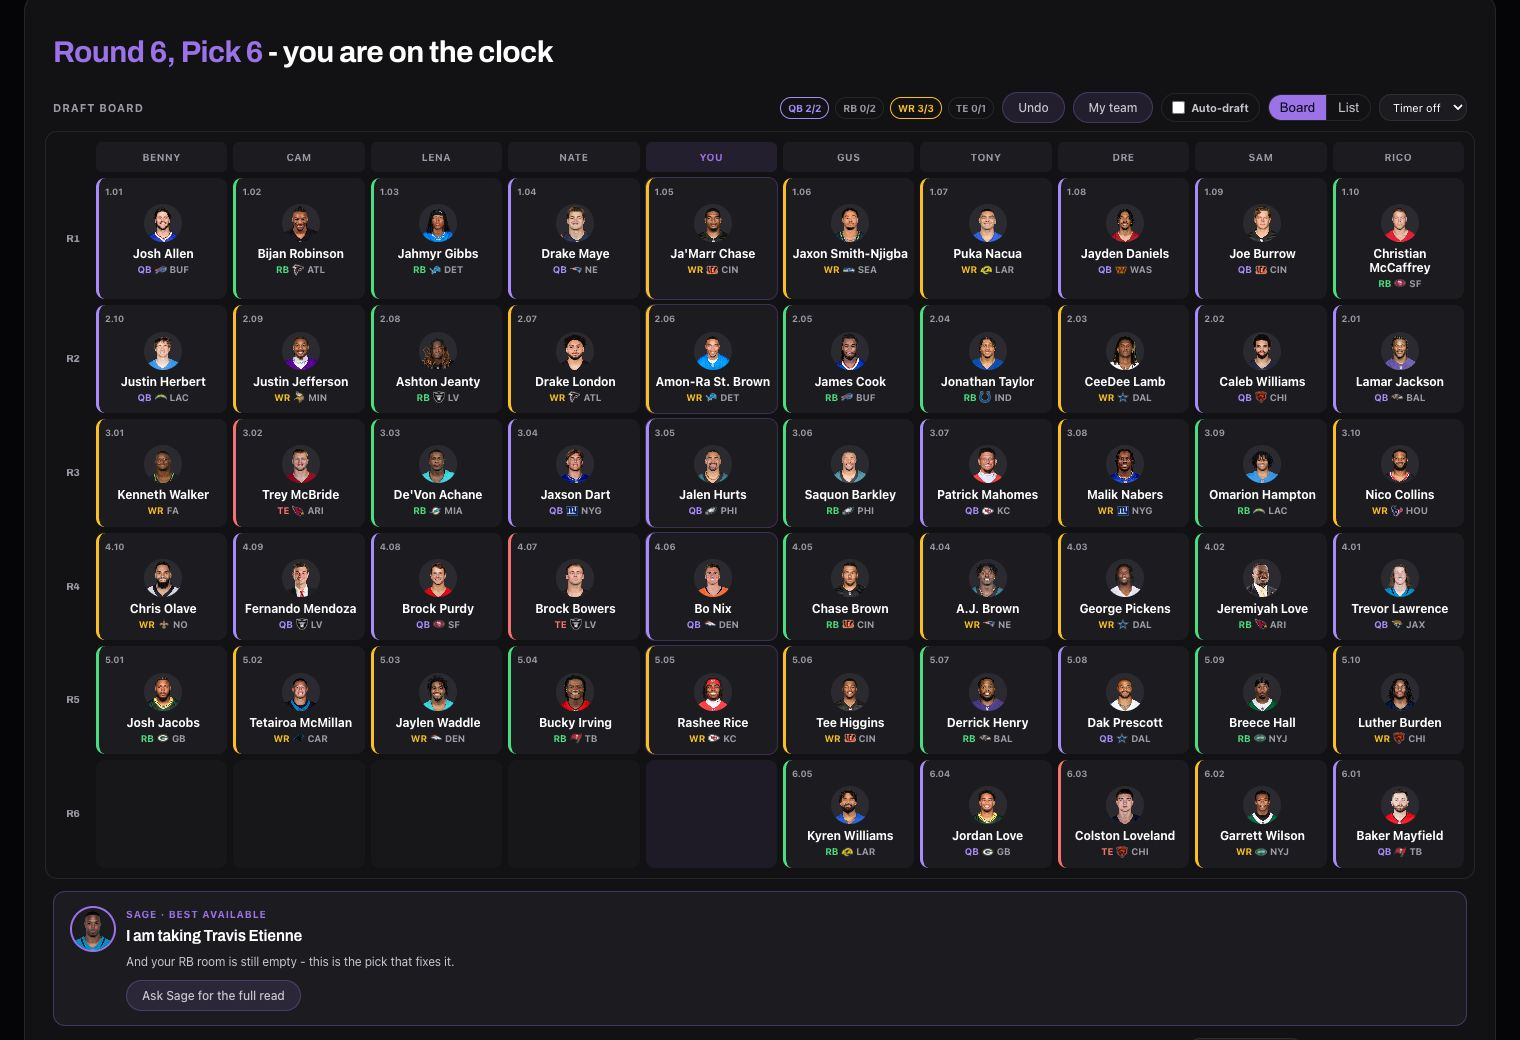
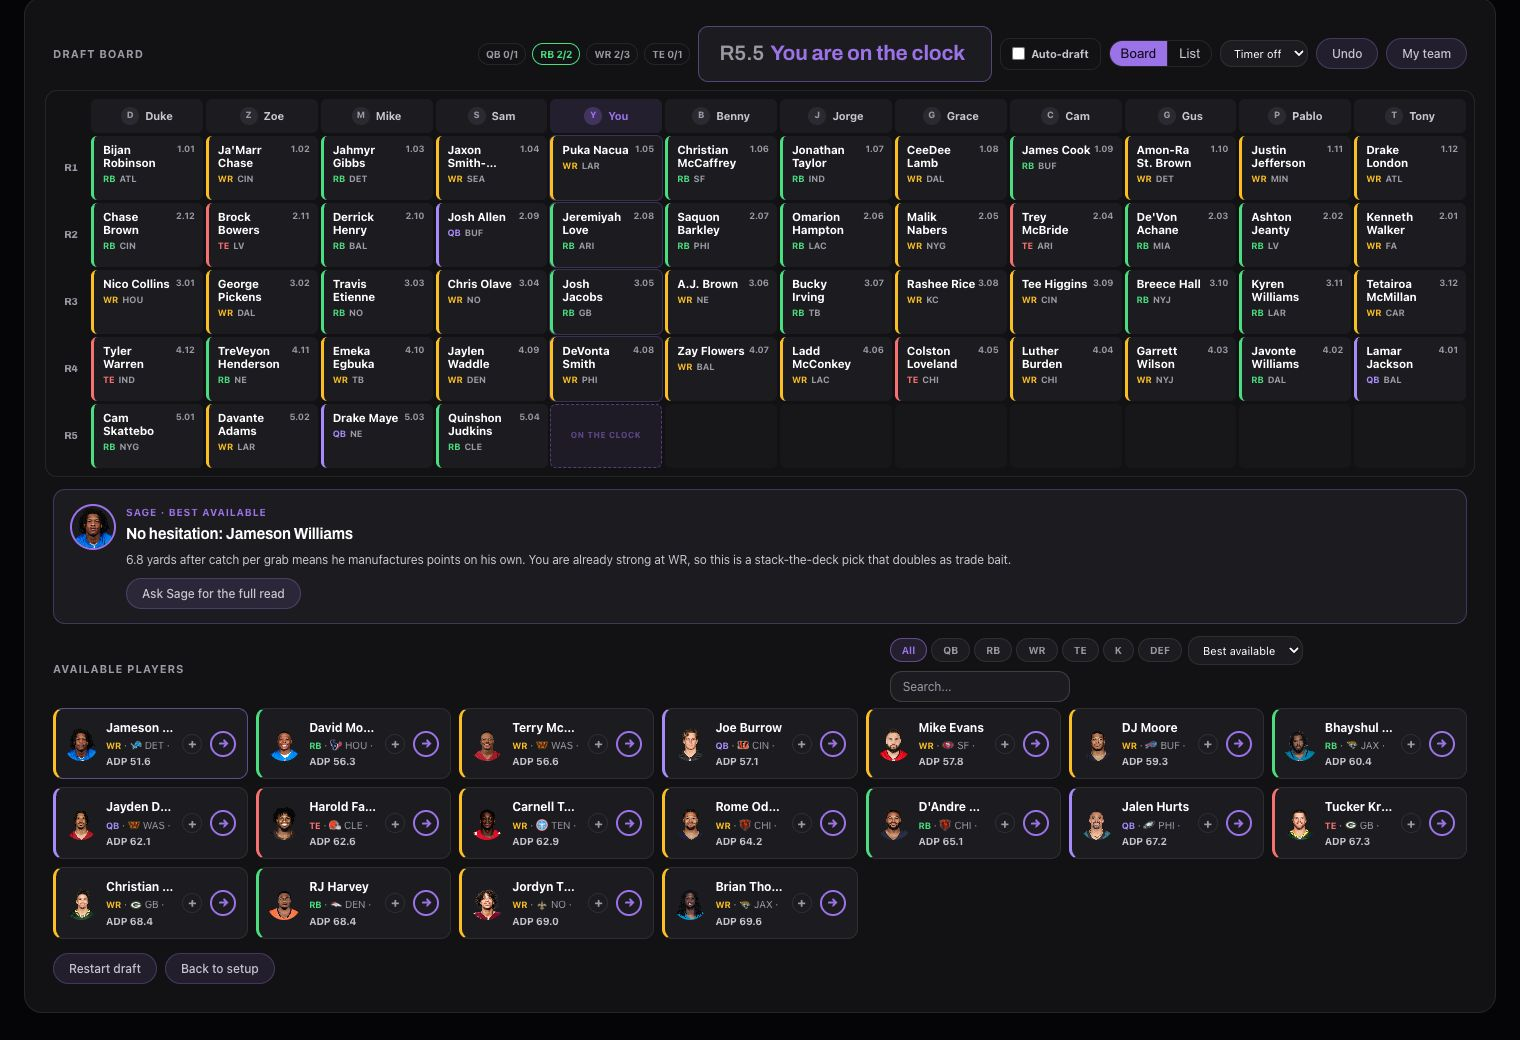
Tablero con proporciones Stacked y player card que abre GRANDE
Tablero (calibrado contra el demo real de stackedfantasy.com, manteniendo
nuestra paleta y la regla de un solo acento):
- Celdas apaisadas (~64px de alto, columnas de minimo 96px con scroll
  lateral cuando no caben), gaps de 3px, numero de pick arriba a la
  derecha, nombre a dos lineas + pos-equipo abajo; las caras salen de las
  celdas (viven en la lista y en el card, aqui costaban la proporcion)
- Headers de columna con avatar circular (inicial) + nombre; YOU en acento
- Barra del board estilo Stacked: pill de estado 'R5.5 · You are on the
  clock' / 'Current drafter: Tony · you in 3' con el reloj dentro, toggle
  Auto-draft al lado, y los controles quietos detras

Player card GRANDE al click (segundo nivel; el inline sigue en calma):
- Escritorio: dosier a dos columnas de hasta 1060px - riel de identidad a
  la izquierda (foto 150px, badge de equipo, nombre 26px, pos, ADP +
  direccion de mercado, señal de timing) y profundidad a la derecha con
  scroll propio (market read, stats 2025, dynasty, Sage's take, noticias)
- Secciones nuevas en el card: 'Keep in mind' (narrativas curadas del
  jugador) y 'Draft day' cuando el mock esta vivo y el jugador sigue en el
  board: un boton trae los carriles de riesgo de Sage renderizados dentro
  del propio card (mdAskSageLive ahora acepta host)
- Movil: el card ocupa la pantalla completa apilado con scroll

El hero se recaptura con el tablero nuevo (mismo encuadre, 179KB) para que
[…]

diff --git a/public/app.js b/public/app.js
@@ -6133,6 +6133,59 @@ function openPlayerCard(pid, name){
     }
   }
 
+  // ── Identity rail extras: ADP + market direction under the bio ──
+  try{
+    var _info=modal.querySelector('.pm-info');
+    var _dm=document.getElementById('pm-draftmeta');
+    if(!_dm&&_info){_dm=document.createElement('div');_dm.id='pm-draftmeta';_dm.style.cssText='font-size:12px;color:var(--muted2);margin-top:8px;font-weight:600';_info.appendChild(_dm);}
+    if(_dm){
+      var _bits=[];
+      var _adp=(pid&&window._adpById)?window._adpById[pid]:null;
+      if(_adp!=null)_bits.push('ADP '+(+_adp).toFixed(1));
+      if(fc){
+        var _t3=fc.trend30Day||0;
+        _bits.push(_t3>250?'rising fast':_t3>60?'rising':_t3<-250?'falling fast':_t3<-60?'falling':'steady market');
+      }
+      _dm.textContent=_bits.join(' · ');
+    }
+  }catch(_){}
+  // ── Keep in mind: the curated draft narratives that apply to THIS player ──
+  try{
+    var _host=takeEl&&takeEl.parentNode;
+    var _km=document.getElementById('pm-keepmind');
+    if(!_km&&_host){_km=document.createElement('div');_km.id='pm-keepmind';_host.insertBefore(_km,takeEl.nextSibling);}
+    if(_km){
+      var _narr=(typeof mdNarratives==='function')?mdNarratives({id:pid,name:displayName,pos:pos,team:team}):[];
+      _km.innerHTML=_narr.length
+        ?'<div style="margin:0 0 12px;padding:12px 14px;background:var(--surface2);border-left:2px solid var(--border2);border-radius:10px">'
+          +'<div style="font-size:10px;font-weight:700;color:var(--accent-bright);text-transform:uppercase;letter-spacing:.08em;margin-bottom:4px">Keep in mind</div>'
+          +_narr.map(function(n){return '<div style="font-size:12px;color:var(--muted2);line-height:1.6;margin-top:4px">'+n+'</div>';}).join('')
+          +'</div>'
+        :'';
+    }
+  }catch(_){}
+  // ── Draft day: if a mock is LIVE and he is still on the board, Sage's risk
+  // lanes are one click away right here in the card ──
+  try{
+    var _sw=document.getElementById('pm-sage-wrap');
+    if(!_sw&&takeEl&&takeEl.parentNode){
+      _sw=document.createElement('div');_sw.id='pm-sage-wrap';
+      var _kmEl=document.getElementById('pm-keepmind');
+      takeEl.parentNode.insertBefore(_sw,_kmEl?_kmEl.nextSibling:takeEl.nextSibling);
+    }
+    if(_sw){
+      var _bd=document.getElementById('md-board');
+      var _inPool=!!(_bd&&_bd.dataset.live==='1'&&!MP.active&&MD.pool&&MD.pool.some(function(x){return x.id===pid;}));
+      _sw.innerHTML=_inPool
+        ?'<div style="margin:0 0 12px;padding:12px 14px;background:var(--surface2);border:1px solid rgba(155,114,232,.3);border-radius:10px">'
+          +'<div style="font-size:10px;font-weight:700;color:var(--accent-bright);text-transform:uppercase;letter-spacing:.08em;margin-bottom:6px">Draft day</div>'
+          +'<div style="font-size:12px;color:var(--muted2);line-height:1.55;margin-bottom:8px">Still on the board in your mock. One call gets Sage\'s risk lanes for this exact pick.</div>'
+          +'<button class="btn-sm md-sage-ask" onclick="mdAskSageLive(\''+pid+'\',\'pm-sage-live\')">Ask Sage: my options here</button>'
+          +'<div id="pm-sage-live" style="display:none"></div></div>'
+        :'';
+    }
+  }catch(_){}
+
   // ── Season outlook ──
   renderOutlook(null, []); // clear while loading
 
@@ -7616,8 +7669,10 @@ function _mdAutoPick(){
 // Sage's REAL read on a pick: one on-demand API call (never per hover, never
 // automatic) carrying the full draft context - your roster, the round, the
 // board - so the answer is about THIS pick in THIS room.
-async function mdAskSageLive(pid){
-  var host=document.getElementById('md-sage-live');
+async function mdAskSageLive(pid,hostId){
+  // hostId lets the big player card host the lanes in place; the war room's
+  // Sage box stays the default
+  var host=document.getElementById(hostId||'md-sage-live');
   if(!host||MD._sageLiveBusy)return;
   var p=pid?(_mdById(pid)||MD.lastRec):(MD.selChoice||MD.lastRec);
   if(!p)return;
@@ -8007,7 +8062,7 @@ function mdAdvance(){
   var pickNo=(MD.pickIdx%MD.teams)+1;
   if(slot===MD.mySlot){
     MD.onClock=true;MD.curRound=round;
-    document.getElementById('md-status').innerHTML='<span style="color:var(--accent-bright)">Round '+round+', Pick '+pickNo+'</span> - you are on the clock<span id="md-clk"></span>';
+    document.getElementById('md-status').innerHTML='<span style="color:var(--muted)">R'+round+'.'+pickNo+'</span><span style="color:var(--accent-bright);font-weight:700">You are on the clock</span><span id="md-clk"></span>';
     mdShowChoices(round);
     mdStartClock();
     if(MD.autoPilot)_mdAutoPick();
@@ -8017,8 +8072,8 @@ function mdAdvance(){
     for(var qi=MD.pickIdx;qi<MD.order.length;qi++){if(MD.order[qi]===MD.mySlot){untilMe=qi-MD.pickIdx;break;}}
     var botName=(MD.bots&&MD.bots[slot]&&MD.bots[slot].name)||('Team '+slot);
     var stEl=document.getElementById('md-status');
-    if(stEl)stEl.innerHTML='Round '+round+', Pick '+pickNo+' - '+botName+' is picking'
-      +(untilMe>0?' · <span style="color:var(--accent-bright)">your turn in '+untilMe+' pick'+(untilMe>1?'s':'')+'</span>':'');
+    if(stEl)stEl.innerHTML='<span style="color:var(--muted)">R'+round+'.'+pickNo+'</span>Current drafter: <b style="color:var(--text)">'+botName+'</b>'
+      +(untilMe>0?'<span style="color:var(--accent-bright)">you in '+untilMe+'</span>':'');
     // AI drafts by need-weighted value
     MD.aiRosters[slot]=MD.aiRosters[slot]||{QB:0,RB:0,WR:0,TE:0,K:0,DEF:0,list:[]};
     var ros=MD.aiRosters[slot];
@@ -9223,12 +9278,15 @@ function mdRenderBoard(){
   var byCell={};
   MD.picks.forEach(function(pk){byCell[pk.round+'-'+pk.slot]=pk;});
   var lastPk=MD.picks[MD.picks.length-1];
-  var html='<div class="mdb-grid" style="grid-template-columns:34px repeat('+MD.teams+',minmax(0,1fr))">';
+  // Columns get a real minimum width (Stacked proportions): on narrow screens
+  // the wrap scrolls sideways instead of crushing every cell
+  var html='<div class="mdb-grid" style="grid-template-columns:34px repeat('+MD.teams+',minmax(96px,1fr))">';
   html+='<div class="mdb-corner"></div>';
   for(var t=1;t<=MD.teams;t++){
     var me=t===MD.mySlot;
     var hb=(MD.bots&&MD.bots[t]&&MD.bots[t].name)||('Team '+t);
-    html+='<div class="mdb-head'+(me?' mdb-me':'')+'" title="'+hb+'">'+(me?'YOU':hb)+'</div>';
+    var ini=me?'Y':hb.charAt(0).toUpperCase();
+    html+='<div class="mdb-head'+(me?' mdb-me':'')+'" title="'+hb+'"><span class="mdb-avatar">'+ini+'</span><span class="mdb-teamname">'+(me?'You':hb)+'</span></div>';
   }
   var roundsDone=Math.max(1,Math.ceil(Math.max(1,MD.picks.length+1)/MD.teams));
   var showRounds=Math.min(MD.rounds,roundsDone);
@@ -9243,19 +9301,14 @@ function mdRenderBoard(){
       } else {
         var pos=pk.p.pos;
         var isLast=lastPk&&pk===lastPk;
-        var nm=pk.p.name.split(' ');
-        // K/DEF names are already short codes - never initial-ize "LAC D/ST"
-        var short=pk.p.name; // full names always - the cell wraps to two lines
-        var _nmEsc=pk.p.name.replace(/'/g,"\\'");
-        var face=pk.p.id&&String(pk.p.id).indexOf('fb_')!==0
-          ?'<img class="mdb-face" src="'+mdFaceUrl(pk.p)+'" alt="" loading="lazy" title="View player card"'+(pk.p.pos==='DEF'?' style="object-fit:contain"':'')+' onclick="event.stopPropagation();openPlayerCard(\''+pk.p.id+'\',\''+_nmEsc+'\')" onerror="this.style.display=\'none\'">'
-          :'';
+        // Landscape cells, Stacked density: pick number top-right, name up to
+        // two lines, pos + team below. Faces live in the list view and the
+        // player card; here they cost height the proportions cannot afford.
         html+='<div class="mdb-cell'+(pk.mine?' mdb-minepick':'')+(isLast?' mdb-latest':'')+'" title="Click to change this pick" onclick="mdEditPick('+r+','+s2+')" style="cursor:pointer;background:var(--surface2);border-left:3px solid '+(posBorder[pos]||'var(--border)')+'">'
           +'<div class="mdb-pickno">'+pk.round+'.'+(pk.pickNo<10?'0':'')+pk.pickNo+'</div>'
-          +'<div class="mdb-row">'+face
-          +'<div class="mdb-txt"><div class="mdb-name">'+short+'</div>'
-          +'<div class="mdb-sub" style="color:'+(posBorder[pos]||'var(--muted)')+'">'+pos+' <span style="color:var(--muted)">'+teamLogo(pk.p.team,12)+(pk.p.team||'FA')+'</span></div></div>'
-          +'</div></div>';
+          +'<div class="mdb-name">'+pk.p.name+'</div>'
+          +'<div class="mdb-sub" style="color:'+(posBorder[pos]||'var(--muted)')+'">'+pos+' <span style="color:var(--muted)">'+(pk.p.team||'FA')+'</span></div>'
+          +'</div>';
       }
     }
   }

diff --git a/public/index.html b/public/index.html
@@ -18,14 +18,14 @@ window.tmTrack=function(ev,props){try{if(window.posthog&&posthog.capture)posthog
 <meta property="og:description" content="Mock drafts personalized to your league. Describe your room or connect Sleeper, then draft with Sage advising every pick.">
 <meta property="og:type" content="website">
 <meta property="og:url" content="https://trademindff.com/">
-<meta property="og:image" content="https://trademindff.com/og.png?v=2026072484">
+<meta property="og:image" content="https://trademindff.com/og.png?v=2026072485">
 <meta property="og:image:width" content="1200">
 <meta property="og:image:height" content="630">
 <meta property="og:site_name" content="TradeMind">
 <meta name="twitter:card" content="summary_large_image">
 <meta name="twitter:title" content="TradeMind - The Mock Draft That Drafts Like Your League">
 <meta name="twitter:description" content="Mock drafts that behave like YOUR league, with Sage advising every pick.">
-<meta name="twitter:image" content="https://trademindff.com/og.png?v=2026072484">
+<meta name="twitter:image" content="https://trademindff.com/og.png?v=2026072485">
 <link rel="canonical" href="https://trademindff.com/">
 <script defer src="/_vercel/insights/script.js"></script>
 <link rel="preconnect" href="https://fonts.googleapis.com">
@@ -33,14 +33,14 @@ window.tmTrack=function(ev,props){try{if(window.posthog&&posthog.capture)posthog
 <link href="https://fonts.googleapis.com/css2?family=Archivo:wght@500;600;700;800;900&display=swap" rel="stylesheet">
 <!-- The ?v=111 stamp cache-busts CSS/JS on deploy. Bump it whenever styles.css,
      v11/v12.css or app.js change, or returning visitors keep the old files. -->
-<link rel="stylesheet" href="/styles.css?v=2026072484">
+<link rel="stylesheet" href="/styles.css?v=2026072485">
 <!-- v12 (Apple design, Archivo headings) is the live site. Applied by default via
      class="v12" on <html> above + this stylesheet. v12.css @imports v11.css. -->
-<link rel="stylesheet" href="/v12.css?v=2026072484" id="skin-default">
+<link rel="stylesheet" href="/v12.css?v=2026072485" id="skin-default">
 <!-- Loads last so the cross-screen consistency pass (radii, type scale, accent
      placement on Community/Research/My League) settles the cascade over both
      styles.css and the v11/v12 skin without needing !important. -->
-<link rel="stylesheet" href="/theme.css?v=2026072484">
+<link rel="stylesheet" href="/theme.css?v=2026072485">
 <script>
 // The older design concepts (v2-v11) stay previewable with ?vN for side-by-side
 // comparison. Loading one swaps out the default v12 baseline and shows a banner so
@@ -52,7 +52,7 @@ if(_skin){
   var _base=document.getElementById('skin-default');
   if(_base&&_base.parentNode)_base.parentNode.removeChild(_base); // and its stylesheet
   _el.classList.add(_skin[1]);
-  document.write('<link rel="stylesheet" href="/'+_skin[1]+'.css?v=2026072484">');
+  document.write('<link rel="stylesheet" href="/'+_skin[1]+'.css?v=2026072485">');
   window.addEventListener('DOMContentLoaded',function(){
     var pill=document.createElement('div');
     pill.style.cssText='position:fixed;bottom:16px;left:50%;transform:translateX(-50%);z-index:99999;background:#131210;color:#f5efe3;font:700 12px sans-serif;padding:10px 18px;border-radius:100px;box-shadow:0 6px 18px rgba(0,0,0,.35);display:flex;gap:12px;align-items:center';
@@ -256,7 +256,7 @@ window.addEventListener('load',function(){window.scrollTo(0,0);});
         meaning, so alt stays empty for screen readers. (hero-product.png is
         the same shot, kept for older cached HTML that still requests it.) -->
    <div class="hero-shot" aria-hidden="true">
-     <img src="/hero-product.jpg?v=2" width="1520" height="1040" alt="" decoding="async" fetchpriority="high">
+     <img src="/hero-product.jpg?v=3" width="1520" height="1040" alt="" decoding="async" fetchpriority="high">
    </div>
   </div>
 </div>
@@ -1107,17 +1107,15 @@ window.addEventListener('load',function(){window.scrollTo(0,0);});
         </div>
         <div id="md-history-wrap" style="display:none"><div id="md-history"></div></div>
         <div id="md-board" style="display:none">
-          <div id="md-status" style="font-size:13px;font-weight:700;color:var(--text);margin-bottom:10px"></div>
-          <div id="md-lg-note" style="display:none;font-size:11px;color:var(--accent-bright);margin:-4px 0 10px;line-height:1.5"></div>
-          <!-- One calm control row: label left, five controls right. Restart
-               and Settings live at the foot of the board; the position color
-               legend went away (every cell already names its position). -->
+          <div id="md-lg-note" style="display:none;font-size:11px;color:var(--accent-bright);margin:0 0 10px;line-height:1.5"></div>
+          <!-- Stacked-style board bar: title left; the drafter-status pill and
+               the Auto-draft toggle carry the row, the quieter controls trail.
+               Restart and Settings live at the foot of the board. -->
           <div style="display:flex;align-items:center;flex-wrap:wrap;gap:8px;margin-bottom:8px">
             <div style="font-size:11px;font-weight:700;color:var(--muted);text-transform:uppercase;letter-spacing:.08em;margin-right:auto">Draft board</div>
             <span id="md-needs" style="display:flex;gap:6px;font-size:10px;font-weight:700"></span>
-            <button class="btn-sm" id="md-undo-btn" onclick="mdUndo()" title="Take back your last pick (AI picks after it come back too)">Undo</button>
-            <button class="btn-sm md-solo-ctl" onclick="mdShowMyRoster()" title="See the players you've drafted so far">My team</button>
-            <label class="md-solo-ctl" title="Sage drafts your picks for you until you turn it off" style="display:inline-flex;align-items:center;gap:6px;font-size:11px;font-weight:700;color:var(--muted2);cursor:pointer;padding:5px 10px;border:1px solid var(--border);border-radius:100px">
+            <div id="md-status"></div>
+            <label class="md-solo-ctl" title="Sage drafts your picks for you until you turn it off" style="display:inline-flex;align-items:center;gap:6px;font-size:11px;font-weight:700;color:var(--muted2);cursor:pointer;padding:6px 11px;border:1px solid var(--border);border-radius:10px">
               <input type="checkbox" id="md-auto" onchange="mdAutoToggle(this.checked)" style="accent-color:var(--accent-bright);margin:0">Auto-draft
             </label>
             <span style="display:inline-flex;border:1px solid var(--border);border-radius:100px;overflow:hidden;font-size:10px;font-weight:700;text-transform:uppercase;letter-spacing:.05em">
@@ -1127,6 +1125,8 @@ window.addEventListener('load',function(){window.scrollTo(0,0);});
             <select id="md-clock-live" class="opp-select" style="width:auto;font-size:11px;padding:5px 9px" onchange="mdSetClockLive(this.value)" title="Pick timer">
               <option value="0">Timer off</option><option value="30">30s</option><option value="60">60s</option><option value="90">90s</option><option value="120">2 min</option>
             </select>
+            <button class="btn-sm" id="md-undo-btn" onclick="mdUndo()" title="Take back your last pick (AI picks after it come back too)">Undo</button>
+            <button class="btn-sm md-solo-ctl" onclick="mdShowMyRoster()" title="See the players you've drafted so far">My team</button>
           </div>
           <div id="md-draftboard" class="mdb-wrap"></div>
           <div id="md-queue-wrap" style="display:none;align-items:center;gap:8px;flex-wrap:wrap;margin-top:10px;padding:9px 12px;background:var(--surface2);border:1px solid var(--border);border-radius:10px">
@@ -1624,7 +1624,7 @@ window.addEventListener('load',function(){window.scrollTo(0,0);});
   </div>
 </div>
 
-<script src="/app.js?v=2026072484"></script>
+<script src="/app.js?v=2026072485"></script>
 
 <!-- PLAYER CARD MODAL -->
 <div id="player-modal" class="pm-overlay" onclick="if(event.target===this)closePlayerCard()">

diff --git a/public/styles.css b/public/styles.css
@@ -1120,23 +1120,27 @@ footer{padding:var(--sp-section) 1.5rem 2.5rem;border-top:1px solid var(--border
 @keyframes rankPick{0%{box-shadow:0 0 0 0 rgba(34,197,94,.6)}100%{box-shadow:0 0 0 16px rgba(34,197,94,0)}}
 
 /* Sleeper-style mock draft board */
+/* Stacked-calibrated board: landscape cells (wider than tall), hairline gaps,
+   pick number pinned top-right, flat surfaces. Team columns carry a small
+   avatar + name. Density and proportion match the reference; the palette and
+   the single-accent rule stay ours. */
 .mdb-wrap{overflow:auto;max-height:560px;margin:0 -8px;border:1px solid var(--border);border-radius:12px;background:var(--surface)}
-.mdb-grid{display:grid;gap:6px;padding:10px;min-width:0}
-.mdb-row{display:flex;flex-direction:column;align-items:center;gap:5px;min-width:0;text-align:center;padding-top:2px}
-.mdb-face{width:38px;height:38px;cursor:pointer;border-radius:50%;object-fit:cover;object-position:top center;flex:none;background:var(--surface3)}
-.mdb-txt{min-width:0;flex:1}
+.mdb-grid{display:grid;gap:3px;padding:8px;min-width:0}
 .mdb-corner{position:sticky;top:0;z-index:2;background:var(--surface)}
-.mdb-head{position:sticky;top:0;z-index:2;background:var(--surface2);font-size:10px;font-weight:700;color:var(--muted);text-transform:uppercase;letter-spacing:.04em;text-align:center;padding:7px 4px;border-radius:6px}
+.mdb-head{position:sticky;top:0;z-index:2;background:var(--surface2);font-size:11px;font-weight:700;color:var(--muted2);padding:8px 6px;border-radius:6px;display:flex;align-items:center;justify-content:center;gap:6px;min-width:0}
+.mdb-head .mdb-teamname{overflow:hidden;text-overflow:ellipsis;white-space:nowrap}
+.mdb-avatar{flex:none;width:18px;height:18px;border-radius:50%;background:var(--surface3);display:inline-flex;align-items:center;justify-content:center;font-size:9px;font-weight:800;color:var(--muted)}
 .mdb-head.mdb-me{background:var(--accent-dim);color:var(--accent-bright)}
+.mdb-head.mdb-me .mdb-avatar{background:rgba(155,114,232,.25);color:var(--accent-bright)}
 .mdb-round{font-size:10px;font-weight:800;color:var(--muted);display:flex;align-items:center;justify-content:center;font-family:var(--font-head)}
-.mdb-cell{border-radius:9px;padding:7px 6px 8px;min-height:104px;font-size:11px;position:relative;min-width:0}
+.mdb-cell{border-radius:6px;padding:7px 9px 8px;min-height:64px;font-size:11px;position:relative;min-width:0;text-align:left}
 .mdb-cell.mdb-empty{background:var(--surface2);opacity:.45;border-left:3px solid transparent}
 .mdb-cell.mdb-empty.mdb-mecol{opacity:.7;background:var(--accent-dim)}
 .mdb-cell.mdb-onclock{opacity:1;background:var(--accent-dim);border:1px dashed rgba(155,114,232,.6);display:flex;align-items:center;justify-content:center}
 .mdb-cell.mdb-onclock span{font-size:8px;font-weight:800;color:var(--accent-bright);letter-spacing:.06em;animation:pulse 1.2s ease-in-out infinite}
-.mdb-pickno{font-size:9px;font-weight:700;color:var(--muted);margin-bottom:3px}
-.mdb-name{font-weight:700;color:var(--text);font-size:12px;line-height:1.25;white-space:nowrap;overflow:hidden;text-overflow:ellipsis}
-.mdb-sub{font-size:9.5px;font-weight:700;margin-top:1px;display:flex;align-items:center;gap:3px;justify-content:center}
+.mdb-pickno{position:absolute;top:6px;right:8px;font-size:9px;font-weight:700;color:var(--muted)}
+.mdb-name{font-weight:700;color:var(--text);font-size:11.5px;line-height:1.25;white-space:normal;overflow:hidden;max-height:2.5em;padding-right:22px}
+.mdb-sub{font-size:9px;font-weight:700;margin-top:3px;display:flex;align-items:center;gap:4px;justify-content:flex-start}
 /* Your picks: a quiet outline, not a second accent - the YOU header and the
    on-clock cell already mark the column, and purple stays on the active pick */
 .mdb-cell.mdb-minepick{outline:1px solid rgba(155,114,232,.3)}
@@ -1955,3 +1959,25 @@ html{scroll-padding-top:76px}
    bar: it holds every tool beyond the mock and Sage. The generic icon-hiding
    rule at 768px must not take it down. */
 @media(min-width:701px){#nav-burger{display:inline-flex!important}}
+
+/* ── War room status pill + the BIG player card ───────────────────────────── */
+/* Stacked-style board bar: the drafter status reads as one quiet pill */
+#md-status{font-size:12px;font-weight:600;color:var(--muted2);padding:7px 14px;border:1px solid var(--border);border-radius:10px;background:var(--surface2);display:inline-flex;align-items:center;gap:6px;flex-wrap:wrap}
+#md-status:empty{display:none}
+
+/* The player card opens BIG on desktop: a dossier, not a popover. Identity
+   rail on the left (photo, name, meta), depth on the right (stats, take,
+   narratives, news, Sage) with its own scroll. */
+@media(min-width:900px){
+  .pm-card{max-width:min(1060px,94vw);display:grid;grid-template-columns:320px minmax(0,1fr);max-height:90vh;overflow:hidden}
+  .pm-header{grid-column:1;flex-direction:column;align-items:flex-start;justify-content:flex-start;border-bottom:0;border-right:1px solid var(--border);padding:1.75rem 1.5rem;overflow-y:auto}
+  .pm-photo{width:150px;height:150px}
+  .pm-team-logo{width:34px;height:34px}
+  .pm-name{font-size:26px;margin-top:12px}
+  .pm-body{grid-column:2;padding:1.5rem;overflow-y:auto;max-height:90vh}
+}
+/* On phones the card is the whole screen, stacked, scrolling */
+@media(max-width:700px){
+  .pm-overlay{padding:0}
+  .pm-card{max-width:100vw;width:100vw;height:100dvh;max-height:100dvh;border-radius:0}
+}
